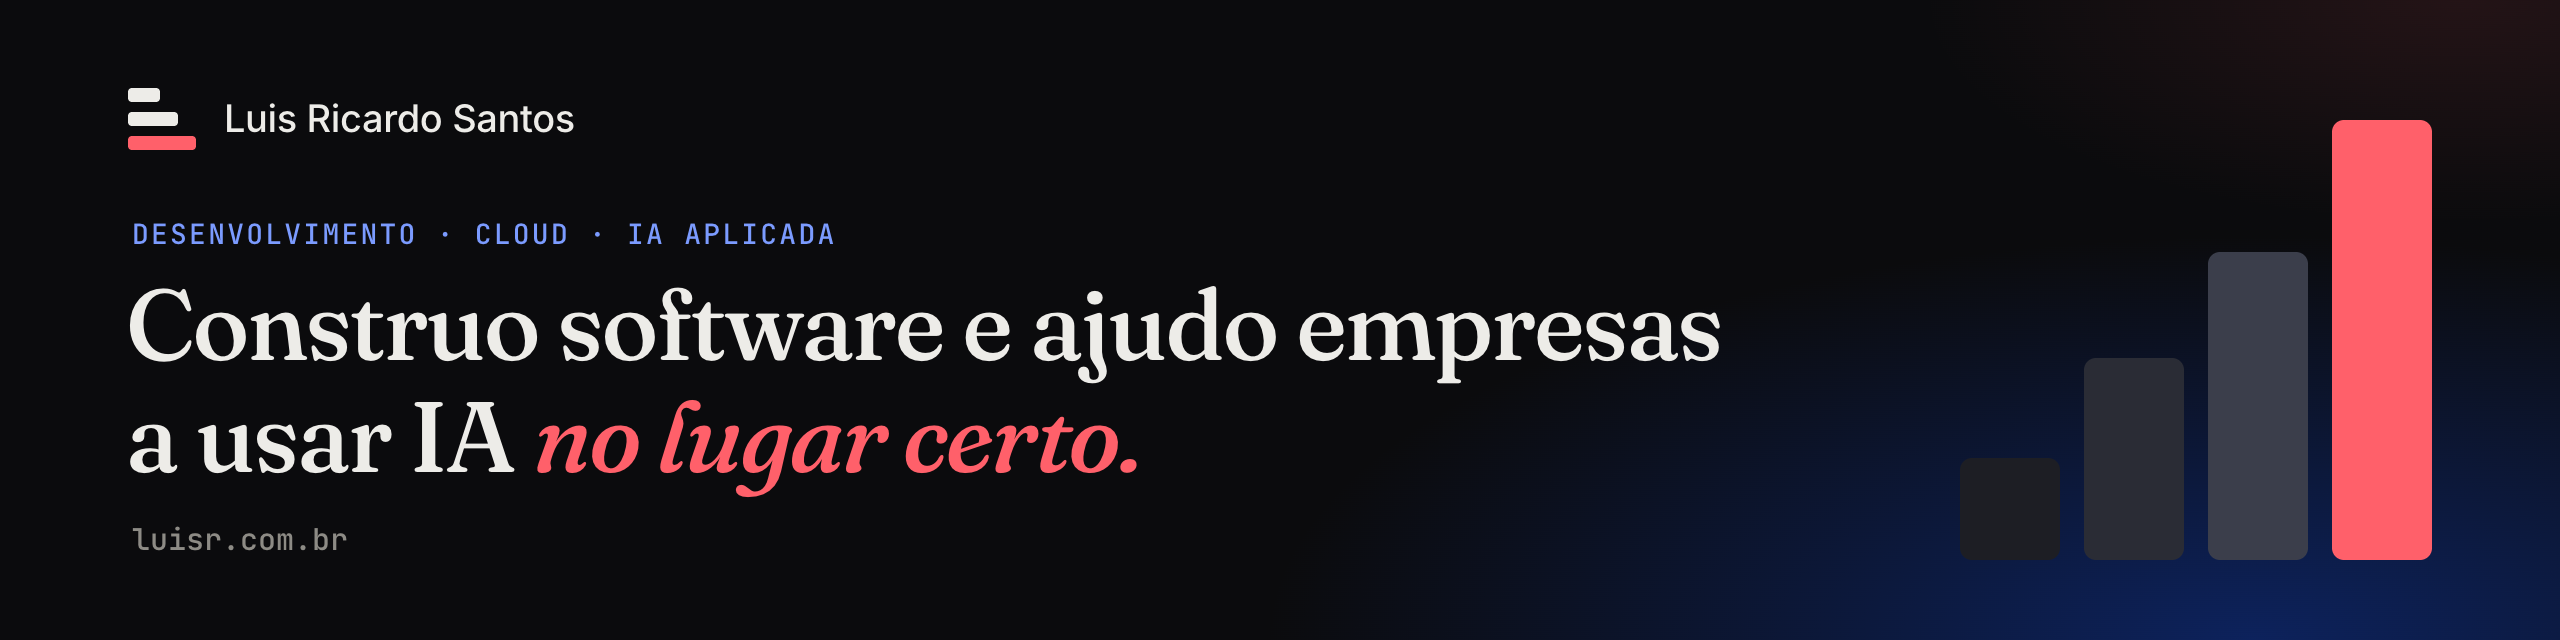
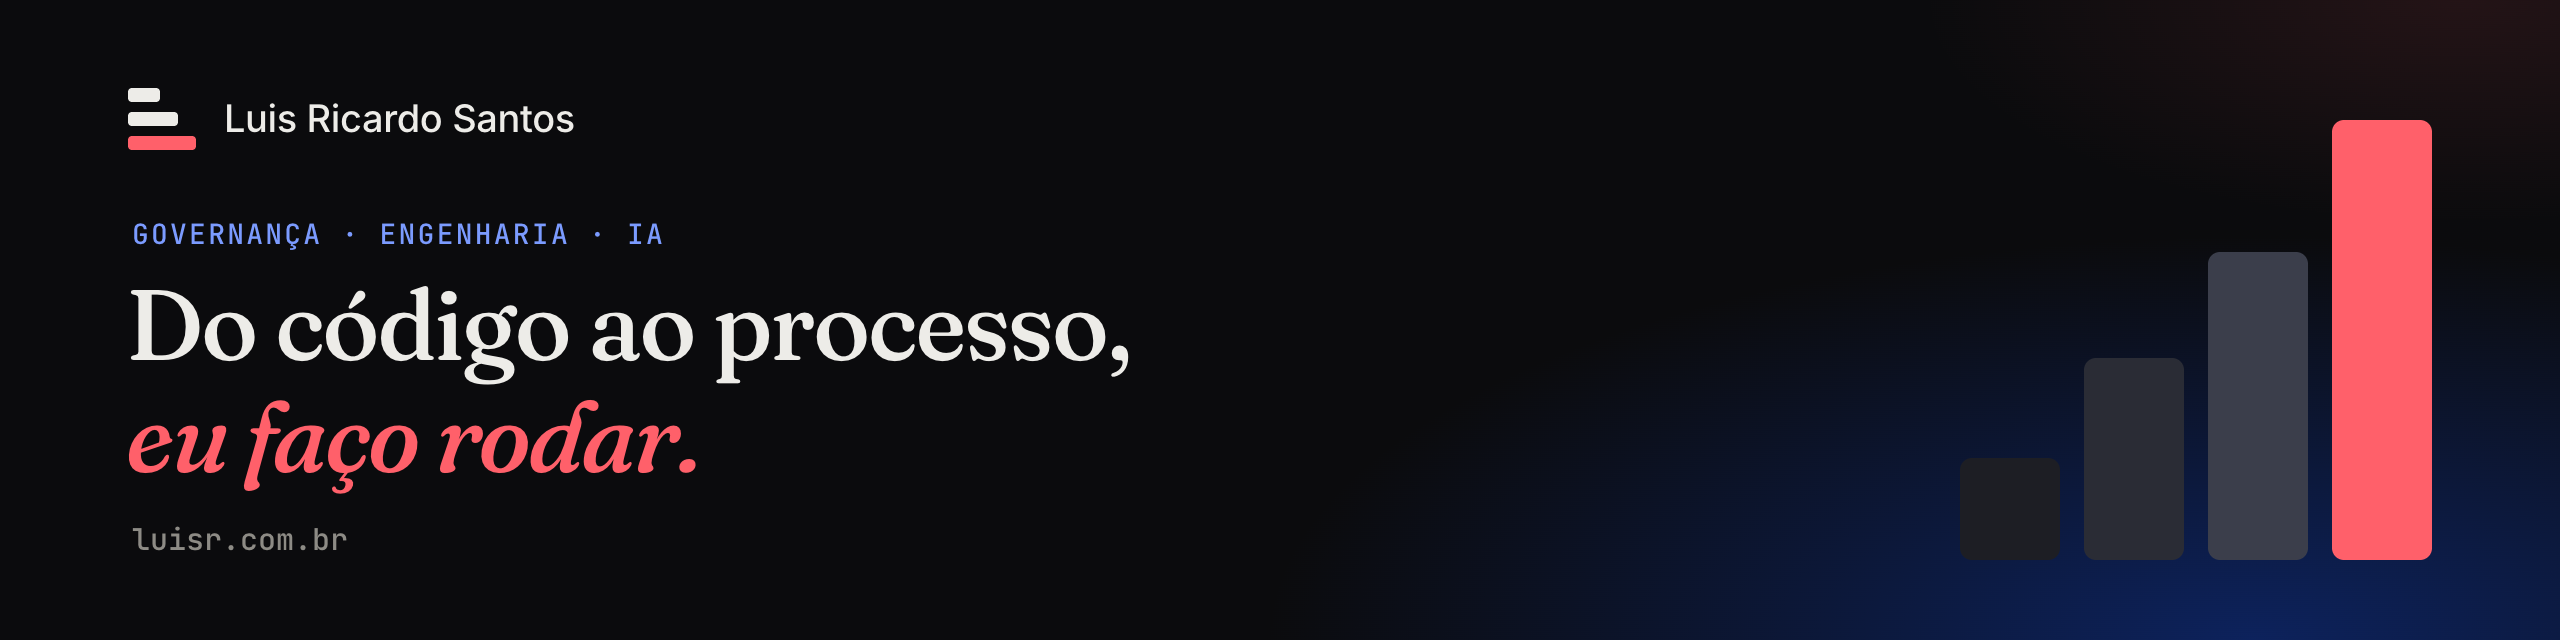
Troca a frase do perfil para "Do código ao processo, eu faço rodar"

diff --git a/README.md b/README.md
@@ -1,4 +1,4 @@
-<a href="https://luisr.com.br"><img src="banner.png" alt="Luis Ricardo Santos. Construo software e ajudo empresas a usar IA no lugar certo." width="100%"></a>
+<a href="https://luisr.com.br"><img src="banner.png" alt="Luis Ricardo Santos. Do código ao processo, eu faço rodar." width="100%"></a>
 
 Entrei em tecnologia sem querer. Me matriculei no técnico achando que era Eletrônica e descobri no primeiro dia que a vaga era de Informática. Fiquei.
 
